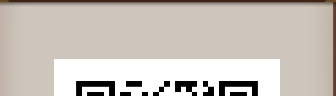
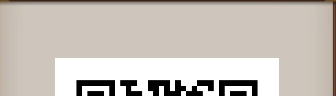
fix(WeeklyTrifles): update image

diff --git a/tasks/WeeklyTrifles/script_task.py b/tasks/WeeklyTrifles/script_task.py
@@ -38,14 +38,14 @@ class ScriptTask(GameUi, WeeklyTriflesAssets):
         # 点击分享
         self.ui_click(wechat, self.I_WT_QR_CODE)
         logger.info('Click share')
-        get_timer = Timer(2)
+        get_timer = Timer(7)
         get_timer.start()
         while 1:
             self.screenshot()
             if self.ui_reward_appear_click():
                 logger.info('Get reward')
                 return True
-            if self.appear_then_click(self.I_WT_QR_CODE, self.C_WT_WECHAT, interval=0.8):
+            if self.appear_then_click(self.I_WT_QR_CODE, self.C_WT_WECHAT, interval=4.8):
                 continue
             if get_timer.reached():
                 logger.warning('Share timeout. The reward may have been obtained')
@@ -78,7 +78,7 @@ class ScriptTask(GameUi, WeeklyTriflesAssets):
                 break
             if self.appear_then_click(self.I_WT_COLLECT_WECHAT, interval=1):
                 continue
-            if self.appear_then_click(self.I_WT_COLLECT, interval=1):
+            if self.appear_then_click(self.I_WT_COLLECT, interval=5):
                 continue
         logger.info('Click share')
         get_timer = Timer(3)
@@ -267,6 +267,7 @@ if __name__ == '__main__':
     t = ScriptTask(c, d)
     t.screenshot()
 
-    t._share_secret()
+    t._share_collect()
+    # t.click_share(t.I_WT_SE_WECHAT)
 
 

diff --git a/tasks/WeeklyTrifles/assets.py b/tasks/WeeklyTrifles/assets.py
@@ -63,7 +63,7 @@ class WeeklyTriflesAssets:
 	# 微信分享 
 	I_WT_COLLECT_WECHAT = RuleImage(roi_front=(640,617,70,63), roi_back=(640,617,70,63), threshold=0.8, method="Template matching", file="./tasks/WeeklyTrifles/collect/collect_wt_collect_wechat.png")
 	# 二维码 
-	I_WT_QR_CODE = RuleImage(roi_front=(473,160,336,96), roi_back=(473,160,336,96), threshold=0.8, method="Template matching", file="./tasks/WeeklyTrifles/collect/collect_wt_qr_code.png")
+	I_WT_QR_CODE = RuleImage(roi_front=(473,161,336,96), roi_back=(404,112,483,168), threshold=0.8, method="Template matching", file="./tasks/WeeklyTrifles/collect/collect_wt_qr_code.png")
 
 
 	# Image Rule Assets

diff --git a/module/device/method/droidcast.py b/module/device/method/droidcast.py
@@ -292,5 +292,5 @@ class DroidCast(Uiautomator2):
 
 if __name__ == '__main__':
     dc = DroidCast(config='oas1')
-    cv2.imshow("iiii", dc.screenshot_uiautomator2())
+    cv2.imshow("iiii", dc.screenshot_droidcast())
     cv2.waitKey(0)

diff --git a/tasks/Nian/script_task.py b/tasks/Nian/script_task.py
@@ -155,3 +155,4 @@ if __name__ == '__main__':
 
     t.run()
 
+
